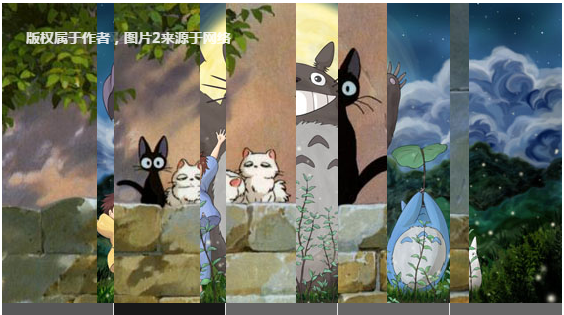
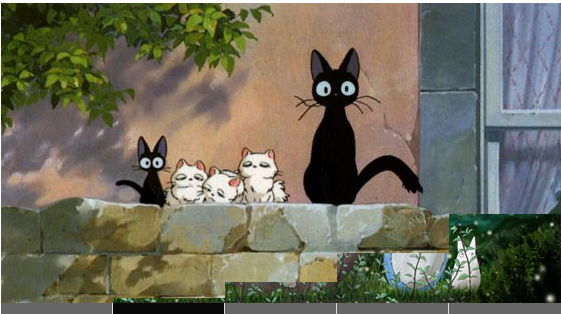
gengxin

diff --git a/index.html b/index.html
@@ -11,14 +11,13 @@
 			}
 			
 			body {
-				background: #000000;
-				background: url(img/timg.jpg);
+				background: url(img/5a.jpg);
+				/*background: #444;*/
 				background-size: 100%;
-			}
-			
+                  }
 			#bg {
 				width: 1200px;
-				height: 800px;
+				height: auto;
 				margin: auto;
 				overflow: hidden;
 				position: relative;
@@ -38,87 +37,55 @@
 			text-decoration: none;
 			color: #fff;
 		}
-		ul{
+		.box ul{
 			width: 1200px;
 			height:auto; 
 			margin: 20px auto;
 		}
-		ul li{
+		.box ul li{
 			width: 20%;
 			height: 250px;
 			list-style: none;
 			float: left;
-			/*background: red;*/
-			margin-top: 200px;
+			margin-top: 120px;
 			margin-left: 3%;
 			position: relative;
 		}
-		ul li img{
+		.box ul li img{
 			width: 100%;
 			height: 80%;
 			position: absolute;
 			left: 50%;top: 50%;
-			margin: -80px 0 0 -100px;
+			margin: -80px 0 0 -120px;
 			z-index: 1;
 		}
-		h1{color: red;margin-top: 50px;}
+		h1{color: red;margin-top: 30px;}
 		</style>
 		<script src="jquery-3.1.1.min.js" type="text/javascript" charset="utf-8"></script>
-		<script type="text/javascript">
-			window.onload = function() {
-				var bg = document.getElementById('bg');
-				
-				//雪花生成
-				function createSnow() {
-					var snow = document.createElement('img');
-					snow.className = "snow";
-					snow.src = "img/Snow_202px_1194833_easyicon.net.png";
-					snow.style.width=parseInt(Math.random() * 10)+10 + "px";
-					snow.style.left = parseInt(Math.random() * 1200) + "px";
-					bg.appendChild(snow);
-					snowMove(snow,800,10);
-				}
-				
-				
-				//雪花下落
-				function snowMove(obj, Target, speed) {
-					clearInterval(obj.times);
-					obj.times = setInterval(function() {
-						var curr = obj.offsetTop;
-						if(curr >= Target) {
-							clearInterval(obj.times);
-							bg.removeChild(obj);
-						} else {
-							obj.style.top = curr + speed + "px";
-						}
-					}, 50)
-				}
-
-				setInterval(createSnow, 100);
-			}
-		</script>
 	</head>
 
 	<body>
 		<div id="bg">
 			<div class="box">
 			<h1>成品案例  Cases</h1>
+			<br>
+			<br>
 			<a href="ziliao.html">相关资料总结</a>
 			<ul>
 				<li>
-					<a href="myFocus Demo v2.0.1/demo.html"><img src="img/1a.jpg" alt="" /></a>
+					<a href="myFocus Demo v2.0.1/demo.html"><img src="img/1a.gif" alt="" class="img" /></a>
 					<a href="myFocus Demo v2.0.1/demo.html">轮播小插件</a>
 				</li>
 				<li>
-					<a href="化学药剂/index.html"><img src="img/2a.jpg" alt="" /></a>
+					<a href="化学药剂/index.html"><img src="img/2a.gif" alt="" class="img" /></a>
 					<a href="化学药剂/index.html">pc端化学药剂</a>
 				</li>
 				<li>
-					<a href="hemi/index.html"><img src="img/3a.jpg" alt="" /></a>
+					<a href="hemi/index.html"><img src="img/3a.gif" alt="" class="img" /></a>
 					<a href="hemi/index.html">移动端网页</a>
 				</li>
 				<li>
-					<a href="HTML5/立方体.html"><img src="img/4a.jpg" alt="" /></a>
+					<a href="HTML5/立方体.html"><img src="img/4a.gif" alt="" class="img"/></a>
 					<a href="HTML5/立方体.html">立方体</a>
 				</li>
 			</ul>
@@ -132,13 +99,13 @@ var big = 1.2;//放大倍数
 $("ul li").hover(function(){
 $(this).find("img").stop(true,true);
 var imgWid2 = 0;var imgHei2 = 0;//局部变量
-imgWid = $(this).find("img").width();
-imgHei = $(this).find("img").height();
+imgWid = $(this).find(".img").width();
+imgHei = $(this).find(".img").height();
 imgWid2 = imgWid * big;
 imgHei2 = imgHei * big;
-$(this).find("img").css({"z-index":2});
-$(this).find("img").animate({"width":imgWid2,"height":imgHei2,"margin-left":-imgWid2/2,"margin-top":-imgHei2/2});
-},function(){$(this).find("img").stop().animate({"width":imgWid,"height":imgHei,"margin-left":-imgWid/2,"margin-top":-imgHei/2.5,"z-index":1});});
+$(this).find(".img").css({"z-index":2});
+$(this).find(".img").animate({"width":imgWid2,"height":imgHei2,"margin-left":-imgWid2/2,"margin-top":-imgHei2/2});
+},function(){$(this).find(".img").stop().animate({"width":imgWid,"height":imgHei,"margin-left":-imgWid/2,"margin-top":-imgHei/2.5,"z-index":1});});
 })
 </script>
 		</body>

diff --git a/土豆/index.html b/土豆/index.html
@@ -22,7 +22,7 @@
 				height: 300px;
 				margin: auto;
 				border: 1px solid #aaa;
-				background: url(img/_106221462123731316275976133879053264698_r2.jpg);
+				background: url(img/_106221462123731316275976133879053264698_r2.jpg) no-repeat;
 				position: relative;
 			}
 			.nav{
